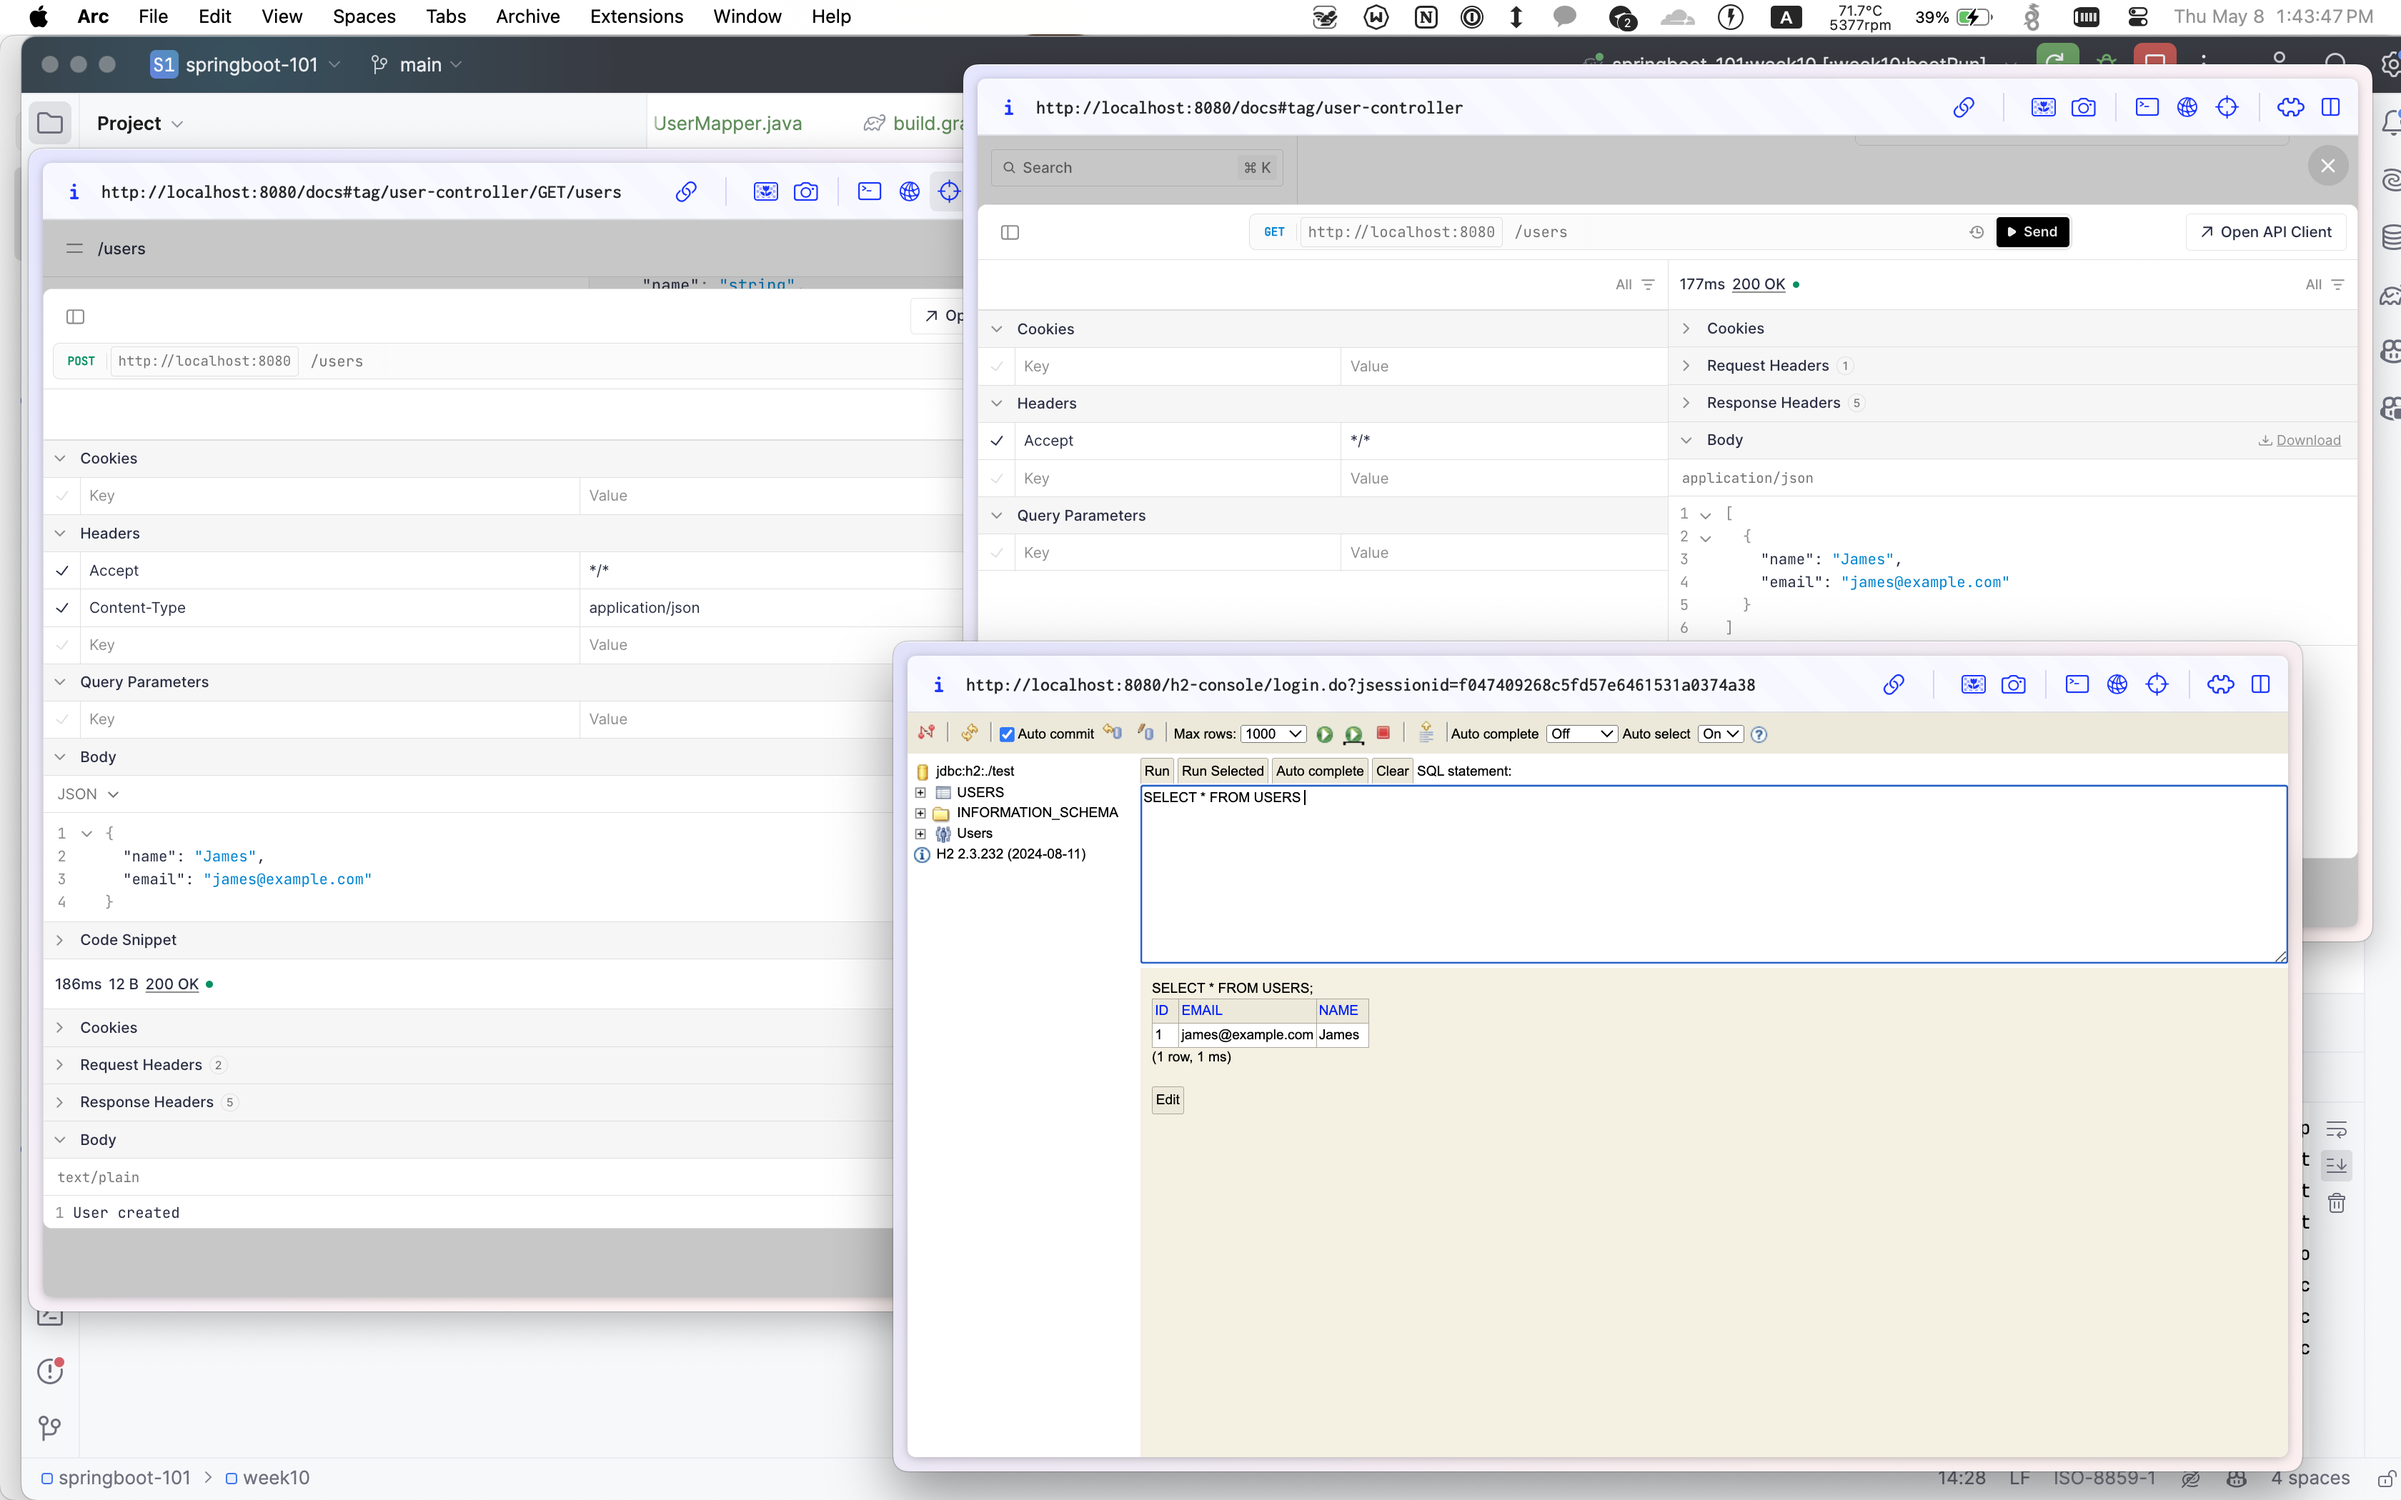
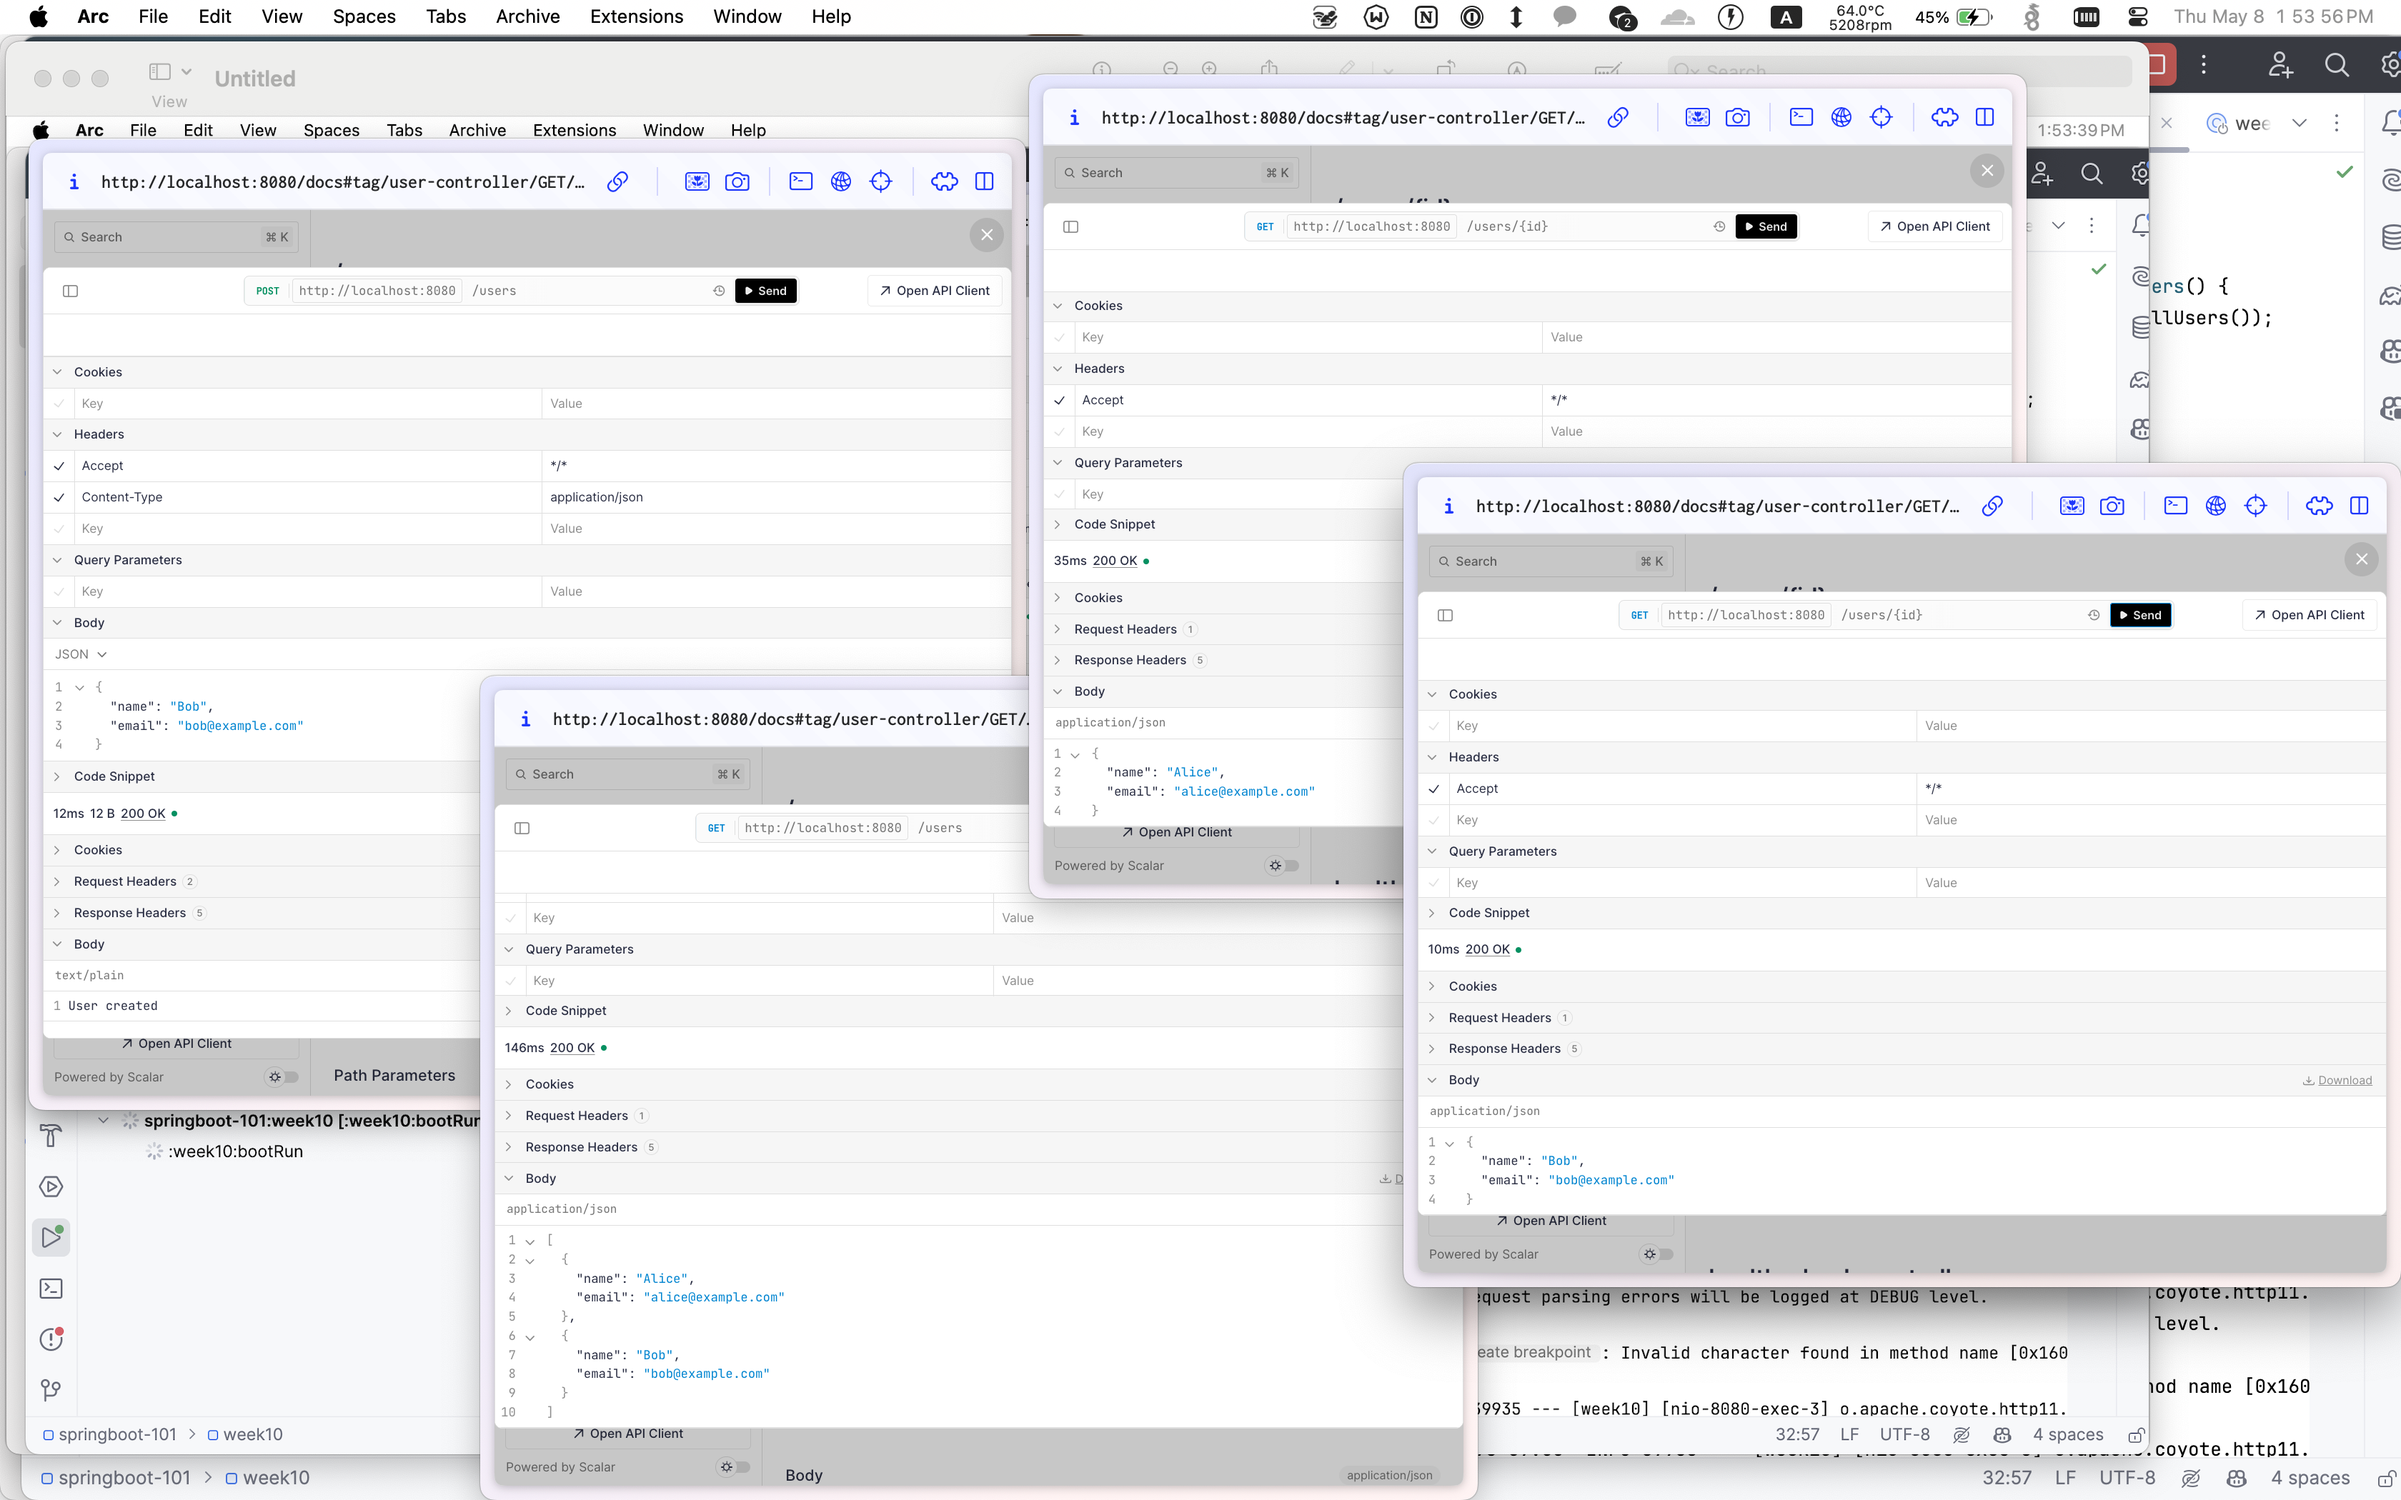
fix: variable location

diff --git a/week10/src/main/java/gcu/jpa/userdemo/controller/UserController.java b/week10/src/main/java/gcu/jpa/userdemo/controller/UserController.java
@@ -29,7 +29,7 @@ public class UserController {
     }
 
     @GetMapping("/{id}")
-    public ResponseEntity<UserDto> getUser(@RequestParam Long id) {
+    public ResponseEntity<UserDto> getUser(@PathVariable Long id) {
         return ResponseEntity.ok(userService.getUser(id));
     }
 }
